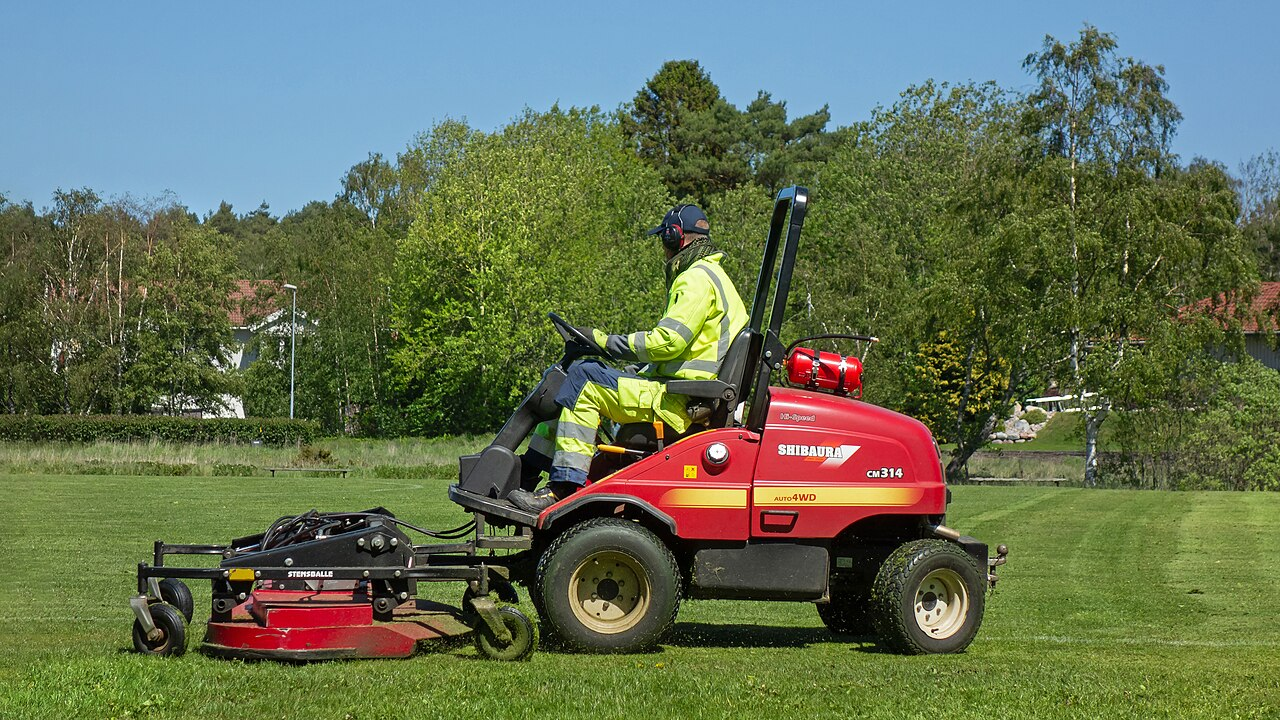
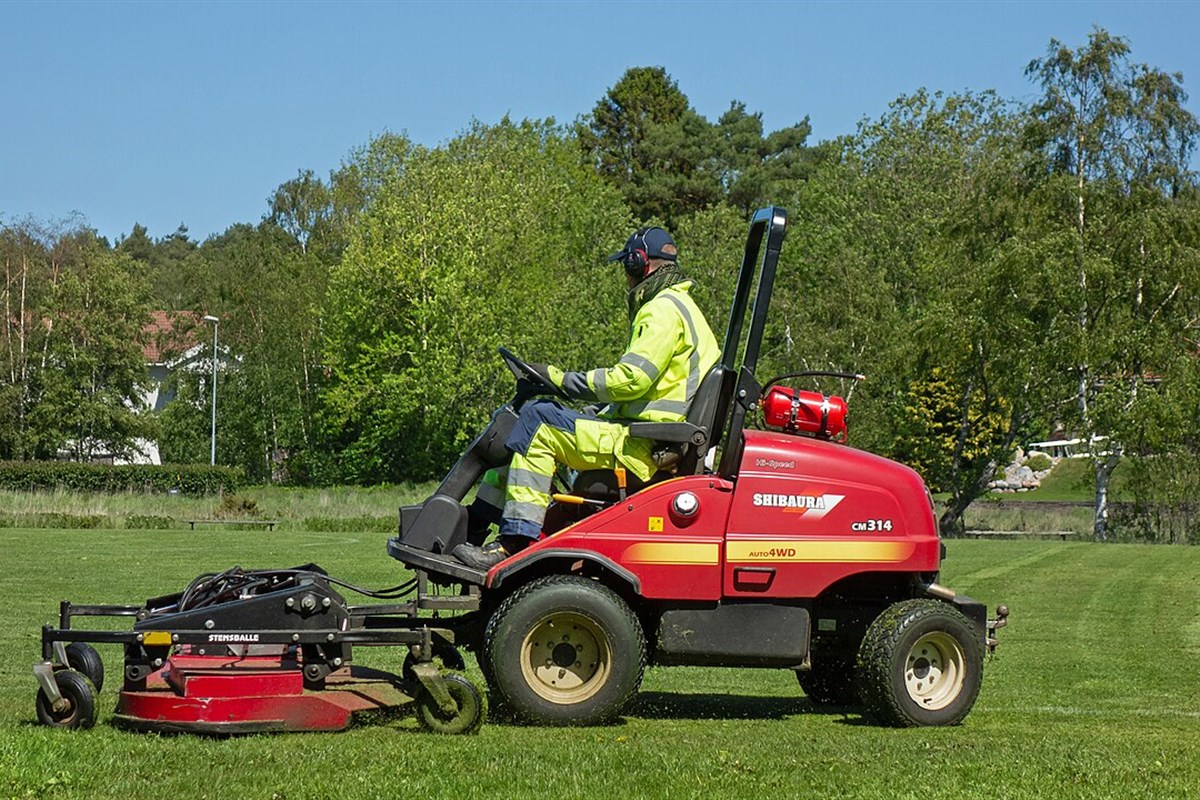
Resize all equipment photos to 1200x800 (high-quality center crop)

diff --git a/index.html b/index.html
@@ -268,14 +268,14 @@
         <h2 id="equipment-title" class="center">Our Equipment</h2>
         <p class="section-sub center">Commercial-grade machines with fresh blades every week — cleaner cuts, healthier grass, zero ruts.</p>
         <ol class="equip-grid">
-          <li><img class="equip-img" src="images/equip-zero-turn.jpg" alt="Commercial zero-turn mower cutting stripes on a green lawn" width="1000" height="467" loading="lazy" /><span class="equip-n" aria-hidden="true">01</span><h3>Commercial Zero-Turn Mower</h3><p>Flawless stripes on large lawns, finished fast.</p></li>
-          <li><img class="equip-img" src="images/equip-stand-on.jpg" alt="Stand-on mower maintaining a large grass field" width="1280" height="720" loading="lazy" /><span class="equip-n" aria-hidden="true">02</span><h3>Stand-On Mower</h3><p>Nimble on slopes, hills &amp; tight gates.</p></li>
-          <li><img class="equip-img" src="images/equip-walk-behind.jpg" alt="Commercial walk-behind mower cutting a suburban garden lawn" width="1280" height="852" loading="lazy" /><span class="equip-n" aria-hidden="true">03</span><h3>Commercial Walk-Behind Mower</h3><p>Gentle, precise cuts for small &amp; delicate lawns.</p></li>
-          <li><img class="equip-img" src="images/equip-trimmer.jpg" alt="Battery string trimmer edging grass along a garden path" width="1280" height="853" loading="lazy" /><span class="equip-n" aria-hidden="true">04</span><h3>Battery String Trimmer</h3><p>Quiet, crisp edges along beds, fences &amp; walks.</p></li>
-          <li><img class="equip-img" src="images/equip-blower.jpg" alt="Commercial backpack blower clearing leaves from a lawn" width="1280" height="853" loading="lazy" /><span class="equip-n" aria-hidden="true">05</span><h3>Commercial Backpack Blower</h3><p>Spotless driveways, patios &amp; sidewalks.</p></li>
-          <li><img class="equip-img" src="images/equip-hedge.jpg" alt="Neatly shaped hedges after professional trimming" width="1000" height="669" loading="lazy" /><span class="equip-n" aria-hidden="true">06</span><h3>Commercial Hedge Trimmer</h3><p>Sharp, healthy shaping for shrubs &amp; hedges.</p></li>
-          <li><img class="equip-img" src="images/equip-aerator.jpg" alt="Core aerator machine for lawn aeration" width="1198" height="1087" loading="lazy" /><span class="equip-n" aria-hidden="true">07</span><h3>Core Aerator</h3><p>Relieves compaction for deeper roots &amp; thicker turf.</p></li>
-          <li><img class="equip-img" src="images/equip-overseeder.jpg" alt="Professional overseeder spreading seed over grass" width="1024" height="681" loading="lazy" /><span class="equip-n" aria-hidden="true">08</span><h3>Professional Overseeder</h3><p>Even seed placement for full, uniform lawns.</p></li>
+          <li><img class="equip-img" src="images/equip-zero-turn.jpg" alt="Commercial zero-turn mower cutting stripes on a green lawn" width="1200" height="800" loading="lazy" /><span class="equip-n" aria-hidden="true">01</span><h3>Commercial Zero-Turn Mower</h3><p>Flawless stripes on large lawns, finished fast.</p></li>
+          <li><img class="equip-img" src="images/equip-stand-on.jpg" alt="Stand-on mower maintaining a large grass field" width="1200" height="800" loading="lazy" /><span class="equip-n" aria-hidden="true">02</span><h3>Stand-On Mower</h3><p>Nimble on slopes, hills &amp; tight gates.</p></li>
+          <li><img class="equip-img" src="images/equip-walk-behind.jpg" alt="Commercial walk-behind mower cutting a suburban garden lawn" width="1200" height="800" loading="lazy" /><span class="equip-n" aria-hidden="true">03</span><h3>Commercial Walk-Behind Mower</h3><p>Gentle, precise cuts for small &amp; delicate lawns.</p></li>
+          <li><img class="equip-img" src="images/equip-trimmer.jpg" alt="Battery string trimmer edging grass along a garden path" width="1200" height="800" loading="lazy" /><span class="equip-n" aria-hidden="true">04</span><h3>Battery String Trimmer</h3><p>Quiet, crisp edges along beds, fences &amp; walks.</p></li>
+          <li><img class="equip-img" src="images/equip-blower.jpg" alt="Commercial backpack blower clearing leaves from a lawn" width="1200" height="800" loading="lazy" /><span class="equip-n" aria-hidden="true">05</span><h3>Commercial Backpack Blower</h3><p>Spotless driveways, patios &amp; sidewalks.</p></li>
+          <li><img class="equip-img" src="images/equip-hedge.jpg" alt="Neatly shaped hedges after professional trimming" width="1200" height="800" loading="lazy" /><span class="equip-n" aria-hidden="true">06</span><h3>Commercial Hedge Trimmer</h3><p>Sharp, healthy shaping for shrubs &amp; hedges.</p></li>
+          <li><img class="equip-img" src="images/equip-aerator.jpg" alt="Core aerator machine for lawn aeration" width="1200" height="800" loading="lazy" /><span class="equip-n" aria-hidden="true">07</span><h3>Core Aerator</h3><p>Relieves compaction for deeper roots &amp; thicker turf.</p></li>
+          <li><img class="equip-img" src="images/equip-overseeder.jpg" alt="Professional overseeder spreading seed over grass" width="1200" height="800" loading="lazy" /><span class="equip-n" aria-hidden="true">08</span><h3>Professional Overseeder</h3><p>Even seed placement for full, uniform lawns.</p></li>
         </ol>
         <div class="center mt">
           <a class="btn btn-primary" href="#contact">Book Pro-Equipment Service →</a>

diff --git a/css/style.css b/css/style.css
@@ -116,7 +116,7 @@ h2{font-size:clamp(1.5rem,3vw,2.1rem);line-height:1.2;margin:0 0 12px;text-wrap:
 .equip-n{display:inline-flex;width:44px;height:44px;border-radius:12px;background:var(--green-900);color:var(--lime);font-weight:900;align-items:center;justify-content:center;font-size:1rem;margin-bottom:10px}
 .equip-grid h3{margin:0 0 6px;font-size:1.02rem}
 .equip-grid p{margin:0;color:var(--muted);font-size:.93rem}
-.equip-img{display:block;width:100%;aspect-ratio:4/3;object-fit:cover;border-radius:10px;margin-bottom:12px;background:#e5eee6}
+.equip-img{display:block;width:100%;aspect-ratio:3/2;object-fit:cover;border-radius:10px;margin-bottom:12px;background:#e5eee6}
 
 /* Split */
 .split{display:grid;grid-template-columns:1fr 1fr;gap:36px;align-items:center}
